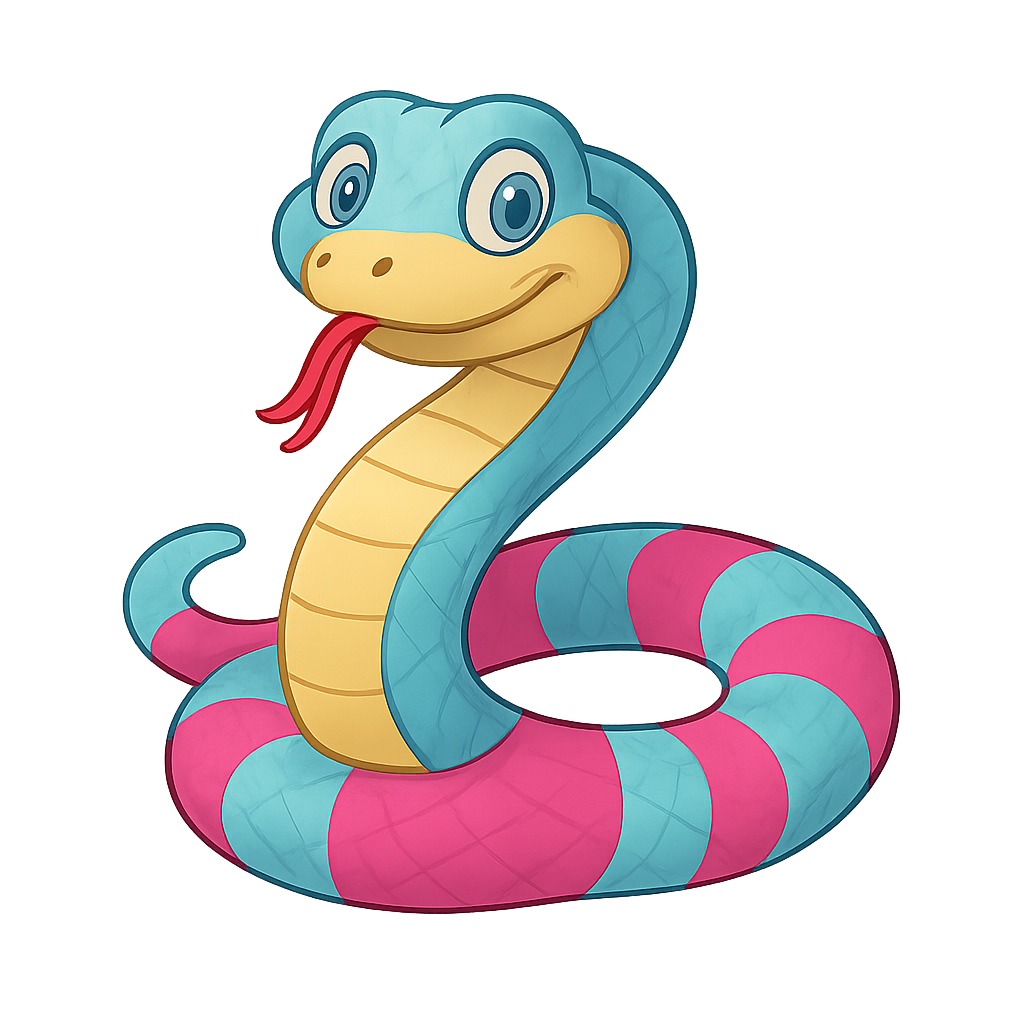
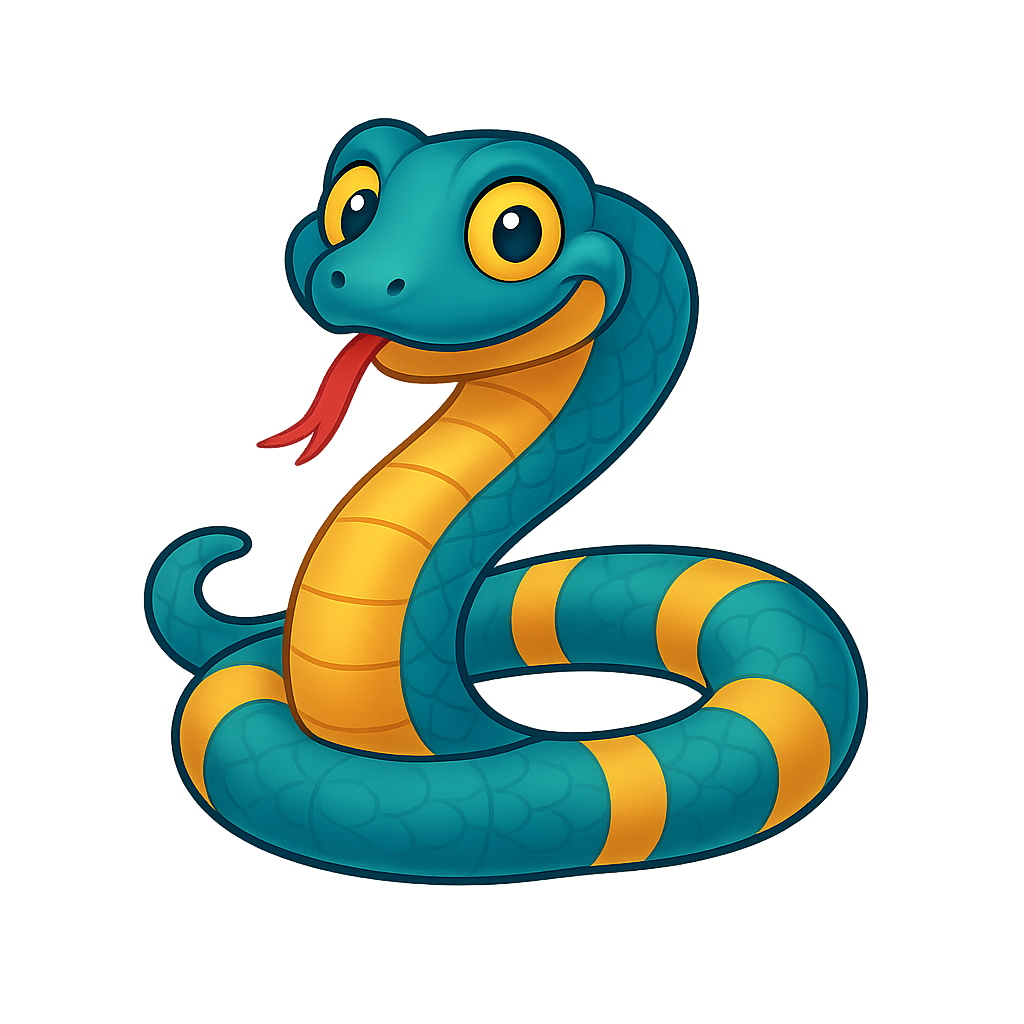
allt þannig séð komið. (einhverjar smávegilegar villur samt)

diff --git a/src/main/resources/css/chess.css b/src/main/resources/css/chess.css
@@ -1,0 +1,73 @@
+
+
+.player1 {
+    -fx-background-image: url("images/characters/Ronaldo.png");
+    -fx-background-size: 100% 100%;
+    -fx-background-position: center;
+    -fx-background-repeat: no-repeat;
+}
+
+.player2 {
+    -fx-background-image: url("images/characters/Messi.png");
+    -fx-background-size: 100% 100%;
+    -fx-background-position: center;
+    -fx-background-repeat: no-repeat;
+}
+
+.player3 {
+    -fx-background-image: url("images/characters/Mbappe.png");
+    -fx-background-size: 100% 100%;
+    -fx-background-position: center;
+    -fx-background-repeat: no-repeat;
+}
+
+.player4 {
+    -fx-background-image: url("images/characters/Haaland.png ");
+    -fx-background-size: 100% 100%;
+    -fx-background-position: center;
+    -fx-background-repeat: no-repeat;
+}
+
+.player5 {
+    -fx-background-image: url("images/characters/Salah.png ");
+    -fx-background-size: 100% 100%;
+    -fx-background-position: center;
+    -fx-background-repeat: no-repeat;
+}
+
+
+.end {
+    /*-fx-background-color: yellow;*/
+    -fx-background-image: url("images/trophy.png");
+    -fx-background-size: 100% 100%;
+    -fx-background-position: center;
+    -fx-background-repeat: no-repeat;
+}
+
+.ladder {
+    -fx-background-image: url("images/score.png");
+    -fx-background-size: 100% 100%;
+    -fx-background-position: center;
+    -fx-background-repeat: no-repeat;
+}
+
+.snake {
+    -fx-background-image: url("images/yellowCard.png");
+    -fx-background-size: 100% 100%;
+    -fx-background-position: center;
+    -fx-background-repeat: no-repeat;
+}
+
+.snake2 {
+    -fx-background-image: url("images/yellowCard.png");
+    -fx-background-size: 100% 100%;
+    -fx-background-position: center;
+    -fx-background-repeat: no-repeat;
+}
+
+.snake3 {
+    -fx-background-image: url("images/yellowCard.png");
+    -fx-background-size: 100% 100%;
+    -fx-background-position: center;
+    -fx-background-repeat: no-repeat;
+}

diff --git a/src/main/java/vidmot/slanga_pro/SlangaController.java b/src/main/java/vidmot/slanga_pro/SlangaController.java
@@ -8,6 +8,7 @@ import javafx.fxml.FXML;
 import javafx.scene.Node;
 import javafx.scene.control.Button;
 import javafx.scene.control.Label;
+import javafx.scene.control.ProgressBar;
 import javafx.scene.input.MouseEvent;
 import javafx.scene.layout.BorderPane;
 import javafx.scene.layout.GridPane;
@@ -30,6 +31,12 @@ public class SlangaController {
     public Label fxNextPlayerImg;
     @FXML
     public BorderPane fxRoot;
+    @FXML
+    public Label fxText1;
+    @FXML
+    public Label fxText2;
+    @FXML
+    public ProgressBar fxProgressBar;
 
     private Game game;
     private boolean gameOver = true;
@@ -68,15 +75,14 @@ public class SlangaController {
             });
         }
 
-        // bindings fyrir mynd af þeim sem á að gera næst og nafn
-//        fxNextPlayerLabel.textProperty().bind(game.nextPlayerProperty().asString());
-//        fxNextPlayerImg.imageProperty().bind(game.nextPlayerProperty().asString().concat(".png"));
-
+        // binidng fyrir progressbar sem virkar ekki alveg
+        //fxProgressBar.progressProperty().bind(game.getNextPlayer().getTileProperty().divide(game.getMax()));
 
     }
 
 
     public void diceHandler(MouseEvent mouseEvent) {
+
         if (game == null || gameOver) {
             nyrHandler(null);
             return;
@@ -85,8 +91,10 @@ public class SlangaController {
         if (game.round()){
             gameOver = true;
             ViewSwitcher.switchTo(View.END_VIEW);
-            //resetta endcontroller einhvernveginn eða nota listener
+            //resetta endcontroller einhvernveginn eða nota listener?
         }
+
+        // breytir myndinni fyrir næsta leikmann
         if (players.getValue() != 0) {
             playerIndex = (playerIndex + 1) % players.getValue();
             fxNextPlayerImg.getStyleClass().clear();
@@ -120,7 +128,7 @@ public class SlangaController {
             tile.getStyleClass().remove("player4");
             tile.getStyleClass().remove("player5");
         }
-        fxNextPlayerImg.getStyleClass().clear();
+        //fxNextPlayerImg.getStyleClass().clear(); þetta er held ég óþarfi
     }
 
     public void umHandler(ActionEvent actionEvent) {

diff --git a/src/main/java/vidmot/slanga_pro/SettingController.java b/src/main/java/vidmot/slanga_pro/SettingController.java
@@ -19,10 +19,13 @@ public class SettingController {
     public ComboBox<String> fxTheme;
 
     public void initialize() {
+        // frumstillir combobox og spinner
         fxDifficulty.getItems().addAll(Difficulty.getValues());
         fxPlayers.setValueFactory(new SpinnerValueFactory.IntegerSpinnerValueFactory(1, 5, 3));
         fxTheme.getItems().addAll(Theme.getValues());
-        fxPlayers.getValueFactory().valueProperty().bindBidirectional(SlangaController.players.asObject());
+
+        // binding fyrir fjölda leikmanna
+        fxPlayers.getValueFactory().valueProperty().bindBidirectional(SlangaController.players.asObject()); // kannski einhver villa í þessu?? gæti verið því að initialize keyrir bar einusinni?
     }
 
     public void onSpila(ActionEvent actionEvent) {
@@ -40,12 +43,13 @@ public class SettingController {
         else if (fxTheme.getValue().equals(Theme.CHESS.getMessage())) {
             SlangaController.styleSheet = "/css/chess.css";
         }
-        else if (fxTheme.getValue().equals(Theme.MONOPOLY.getMessage())) {
-            SlangaController.styleSheet = "/css/monopoly.css";
-        }
-        else if (fxTheme.getValue().equals(Theme.RANDOM.getMessage())) {
-            SlangaController.styleSheet = "/css/random.css";
-        }
+//        auka ef ég vil gera fleiri - þarf að taka úr comboboxinu líka
+//        else if (fxTheme.getValue().equals(Theme.MONOPOLY.getMessage())) {
+//            SlangaController.styleSheet = "/css/monopoly.css";
+//        }
+//        else if (fxTheme.getValue().equals(Theme.RANDOM.getMessage())) {
+//            SlangaController.styleSheet = "/css/random.css";
+//        }
 
         // velur erfiðleikastig
         if (fxDifficulty.getValue() == null) {

diff --git a/src/main/java/vinnsla/Game.java b/src/main/java/vinnsla/Game.java
@@ -2,9 +2,6 @@ package vinnsla;
 
 import vidmot.slanga_pro.PlayerDialog;
 
-import java.nio.charset.StandardCharsets;
-import java.util.Scanner;
-
 public class Game{
 
     private int max;
@@ -86,5 +83,9 @@ public class Game{
 
     public Dice getDice() {
         return dice;
+    }
+
+    public int getMax() {
+        return max;
     }
 }

diff --git a/todo.md b/todo.md
@@ -11,16 +11,15 @@
  - [x] láta fólkið hverfa þegar nýr leikur byrjar til dæmis...  
  - [x] laga teninginn - geri hann kannksi að button bara
  - [x] láta leikinn virka fyrir hin borði...laga max
+ - [x] gera dæmið sem tengir valið í settings við þema sem er birt
+ - [x] og binda við eitthvað sem skiptir út stylesheet
+ - [x] gera upplýsingarnar hjá teningnum
+ - [x] gera myndina af næsta leikmanni
 
 
- - [ ] gera þemun  
- - [ ] gera dæmið sem tengir valið í settings við þema sem er birt
- - [ ] og binda við eitthvað sem skiptir út stylesheet
+ - [ ] gera þemun - eitt eftir  
 
-
- - [ ] gera upplýsingarnar hjá teningnum
- - [ ] gera myndina af næsta leikmanni
-
+ - [ ] bæta við skilaboða dæmið
 
 ### Aukadót:
  - [ ] láta leikmennina byrja á reit eitt
@@ -28,25 +27,24 @@
  - [ ] gera progress bar til að sjá árangur leikmanns  
  - [ ] gera um glugga sem opnast í menuinu  
  - [ ] gera leiðbeiningar glugga líka  
- - [ ] gera hætta skjá 
- - [ ] láta mynd fylgja á enda skjá 
+ - [ ] gera hætta skjá  
+ - [ ] láta mynd fylgja á enda skjánnum og laga hann  
 
 ---
 
 ## Næstu verkefni:
  - gera þemun
-   - gera myndirnar með chat
    - gera lit á bakgrunni
-   - 
+   - gera skák
  - gera upplýsingarnar hjá teningnum
-   - myndina af næsta leikmanni
-   - textann
    - skilaboðin
    - progressbar?
  - ### Smáatriði:
- - laga button svæðið í medium
+ - laga sumar myndir
+ - 
 
 ## Vandamál
 
 - winner breytist ekki ef spilað er aftur
 - virkar ekki að gera cancel í dialognum
+- fjöldi leikmanna virðist ekki breytast ef spilað er aftur
